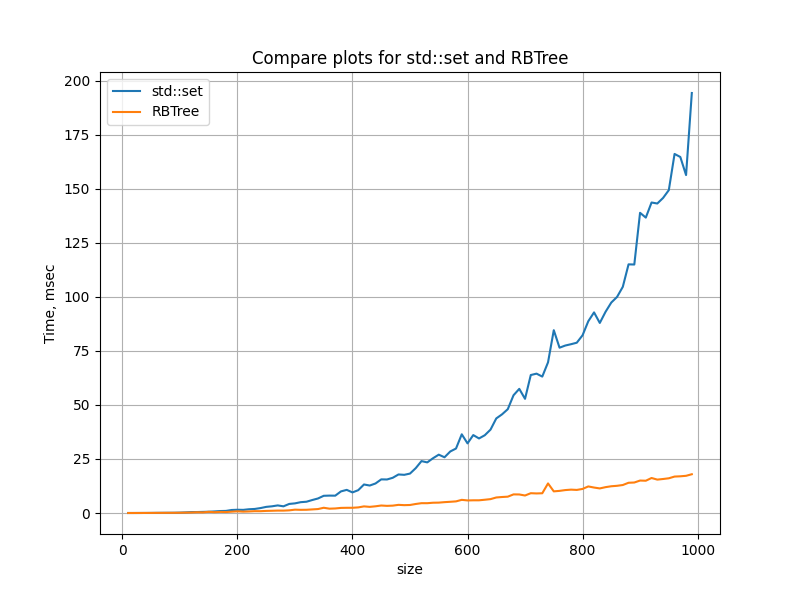
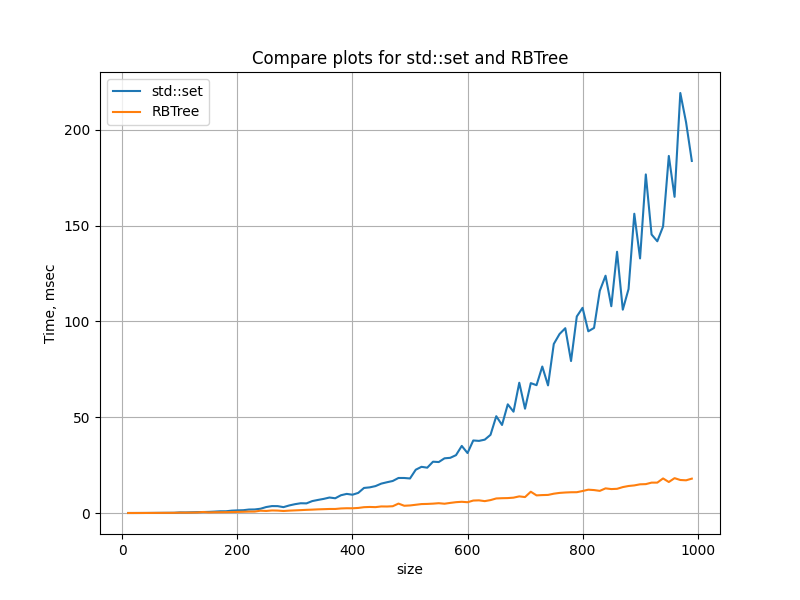
Added 2 programs to compare

diff --git a/Tree/include/Tree.hpp b/Tree/include/Tree.hpp
@@ -600,8 +600,9 @@ private:
     }
 
     size_t countNodesLess(NodePtr node) const {
+        assert(node);
         if (node == nil_) { return root_->size_; }
-        size_t sum = node->leftSize() + 1U;
+        size_t sum = node->leftSize();
         while (node != root_) {
             if (node->isRightChild()) { sum += node->parent_->leftSize() + 1U; }
             node = node->parent_;
@@ -623,11 +624,11 @@ public:
         return iterator(nil_);
     }
 
-    reverse_iterator rbegin() {
+    reverse_iterator rbegin() const {
         return reverse_iterator(end());
     }
 
-    reverse_iterator rend() {
+    reverse_iterator rend() const {
         return reverse_iterator(begin());
     }
 
@@ -666,21 +667,6 @@ public:
         NodePtr prev = nil_;
         NodePtr curr = root_;
         while (curr) {
-            bool keyLess = compare_(key, curr->key_);
-            if (keyLess) {
-                curr = curr->right_;
-            } else {
-                prev = curr;
-                curr = curr->right_;
-            }
-        }
-        return iterator(prev);
-    }
-
-    iterator upper_bound(const K& key) {
-        NodePtr prev = nil_;
-        NodePtr curr = root_;
-        while (curr) {
             bool keyBigger = compare_(curr->key_, key);
             if (keyBigger) {
                 curr = curr->right_;
@@ -692,9 +678,25 @@ public:
         return iterator(prev);
     }
 
+    iterator upper_bound(const K& key) {
+        NodePtr prev = nil_;
+        NodePtr curr = root_;
+        while (curr) {
+            bool keyLess = compare_(key, curr->key_);
+            if (keyLess) {
+                prev = curr;
+                curr = curr->left_;
+            } else {
+                curr = curr->right_;
+            }
+        }
+        return iterator(prev);
+    }
+
     size_t distance(iterator first, iterator last) const {
-        if (compare_(*last, *first)) { return 0U; }
-        return countNodesLess(last.node_) - countNodesLess(first.node_) + 1U;
+        if (empty()) { return 0U; }
+        if (last.node_ != nil_ && compare_(*last, *first)) { return 0U; }
+        return countNodesLess(last.node_) - countNodesLess(first.node_);
     }
 
     void dump(std::fstream& file) const {

diff --git a/Tree/include/Utils.hpp b/Tree/include/Utils.hpp
@@ -6,21 +6,19 @@ This file contains function, that checks end_to_end tests.
 
 */
 
+#include <set>
 #include <vector>
 #include "Tree.hpp"
 
 namespace tree
 {
 
-inline std::vector<int> process(std::istream& in) {
-	in.exceptions(in.failbit);
+inline std::vector<int> myProcess(std::istream& in) {
 	RBTree<int> tree;
-	//std::fstream log{"../mylog.dot", std::ios::out};
 	std::vector<int> output;
 
-	while (!in.eof()) {
-		char cmd = 0;
-		in >> cmd;
+	char cmd = 0;
+	while (in >> cmd) {
 		if (cmd == 'k') {
 			int key = 0;
 			in >> key;
@@ -29,12 +27,10 @@ inline std::vector<int> process(std::istream& in) {
 			int lowerBound = 0;
 			int upperBound = 0;
 			in >> lowerBound >> upperBound;
-			if (lowerBound > upperBound) {
-				throw std::logic_error("Lower bound > upper bound");
-			}
+			if (lowerBound > upperBound) { std::swap(lowerBound, upperBound); }
 			output.push_back(0);
-			auto lowIt = tree.upper_bound(lowerBound);
-			auto upIt = tree.lower_bound(upperBound);
+			auto lowIt = tree.lower_bound(lowerBound);
+			auto upIt = tree.upper_bound(upperBound);
 			output[output.size() - 1] = tree.distance(lowIt, upIt);
 		} else if (cmd == 'e') {
 			break;
@@ -42,8 +38,33 @@ inline std::vector<int> process(std::istream& in) {
 			throw std::out_of_range(std::string("Unknown command ") + cmd);
 		}
 	}
-	//tree.dump(log);
+	return output;
+}
 
+inline std::vector<int> stdProcess(std::istream& in) {
+	std::set<int> tree;
+	std::vector<int> output;
+
+	char cmd = 0;
+	while (in >> cmd) {
+		if (cmd == 'k') {
+			int key = 0;
+			in >> key;
+			tree.insert(key);
+		} else if (cmd == 'q') {
+			int lowerBound = 0;
+			int upperBound = 0;
+			in >> lowerBound >> upperBound;
+			output.push_back(0);
+			auto lowIt = tree.lower_bound(lowerBound);
+			auto upIt = tree.upper_bound(upperBound);
+			output[output.size() - 1] = std::distance(lowIt, upIt);
+		} else if (cmd == 'e') {
+			break;
+		} else {
+			throw std::out_of_range(std::string("Unknown command ") + cmd);
+		}
+	}
 	return output;
 }
 

diff --git a/Tree/test/TreeTest.cpp b/Tree/test/TreeTest.cpp
@@ -51,7 +51,7 @@ bool checkProperty4(RBTree<int>& t) {
 
 	if (leaves.empty()) { return true; }
 	size_t depth = countBlackNodes(leaves[0], t.root());
-	for (size_t i = 1; i < leaves.size(); ++i) {
+	for (size_t i = 1U; i < leaves.size(); ++i) {
 		if (countBlackNodes(leaves[i], t.root()) != depth) { return false; }
 	}
 	return true;
@@ -81,10 +81,15 @@ TEST(RBTreeTest, treeInsert) {
 }
 
 TEST(RBTreeTest, end_to_end_tests) {
-	std::ifstream in1{"../test/test1.txt", std::ios::in};
-	auto out1 = process(in1);
+	std::ifstream in1{"../test/001.dat", std::ios::in};
+	auto out1 = myProcess(in1);
 	std::vector<int> outCorrect1{2, 0, 3};
 	EXPECT_TRUE(out1 == outCorrect1);
+
+	std::ifstream in2{"../test/002.dat", std::ios::in};
+	auto out2 = myProcess(in2);
+	std::vector<int> outCorrect2{0, 0, 2, 2, 0, 1, 0, 2, 4, 3};
+	EXPECT_TRUE(out2 == outCorrect2);	
 }
 
 TEST(RBvsSTDSET, speed_test) {
@@ -111,10 +116,9 @@ TEST(RBvsSTDSET, speed_test) {
 		}
 		auto end = std::chrono::high_resolution_clock::now();
 		auto elapsed = std::chrono::duration_cast<std::chrono::microseconds>(end - start);
-		//std::cout << "Set: " << elapsed.count() << " " << sumDist << std::endl;
-		//std::cout << sumDist << " ";
-		file << static_cast<double>(elapsed.count()) * 0.001 << "\t";
+		file << sumDist << "\t" << static_cast<double>(elapsed.count()) * 0.001 << "\t";
 
+		sumDist = 0;
 		start = std::chrono::high_resolution_clock::now();
 		for (auto it1 = rb.begin(); it1 != rb.end(); ++it1) {
 			for (auto it2 = it1; it2 != rb.end(); ++it2) {
@@ -123,10 +127,7 @@ TEST(RBvsSTDSET, speed_test) {
 		}
 		end = std::chrono::high_resolution_clock::now();
 		elapsed = std::chrono::duration_cast<std::chrono::microseconds>(end - start);
-		//std::cout << "RB: " << elapsed.count() << " " << sumDist << std::endl;
-		//std::cout << sumDist << "\n";
-		file << static_cast<double>(elapsed.count()) * 0.001 << std::endl;
-		assert(&sumDist);
+		file << sumDist << "\t" << static_cast<double>(elapsed.count()) * 0.001 << std::endl;
 	}
 }
 

diff --git a/Tree/test/MyDistance.cpp b/Tree/test/MyDistance.cpp
@@ -1,0 +1,20 @@
+#include <chrono>
+#include "../include/Utils.hpp"
+#include "../include/Tree.hpp"
+
+int main()
+{
+    try {
+        auto start = std::chrono::high_resolution_clock::now();
+		auto res = tree::myProcess(std::cin);
+        auto end = std::chrono::high_resolution_clock::now();
+        auto elapsed = std::chrono::duration_cast<std::chrono::microseconds>(end - start);
+		for (size_t i = 0; i < res.size(); ++i) {
+			std::cout << res[i] << " ";
+		}
+        std::cout << "\nTime processed: " << static_cast<double>(elapsed.count()) * 0.001 << " msec" << std::endl;
+	} catch (const std::exception& e) {
+		std::cout << "Error: " << e.what() << std::endl;
+	}
+    return 0;
+}

diff --git a/Tree/test/Compare.py b/Tree/test/Compare.py
@@ -1,6 +1,6 @@
 import matplotlib.pyplot as plt
 
-with open('./test/compare.txt', 'r') as file:
+with open('../test/compare.txt', 'r') as file:
     lines = file.readlines()
 
 x = []
@@ -10,8 +10,8 @@ y2 = []
 for line in lines:
     data = line.strip().split()
     x.append(float(data[0]))
-    y1.append(float(data[1]))
-    y2.append(float(data[2]))
+    y1.append(float(data[2]))
+    y2.append(float(data[4]))
 
 plt.figure(figsize=(8, 6))
 plt.plot(x, y1, label='std::set')
@@ -21,4 +21,4 @@ plt.ylabel('Time, msec')
 plt.legend()
 plt.title('Compare plots for std::set and RBTree')
 plt.grid(True)
-plt.savefig("./res/compare.png")
+plt.savefig("../res/compare.png")

diff --git a/Tree/test/StdDistance.cpp b/Tree/test/StdDistance.cpp
@@ -1,0 +1,19 @@
+#include <chrono>
+#include "../include/Utils.hpp"
+
+int main()
+{
+    try {
+        auto start = std::chrono::high_resolution_clock::now();
+		auto res = tree::stdProcess(std::cin);
+        auto end = std::chrono::high_resolution_clock::now();
+        auto elapsed = std::chrono::duration_cast<std::chrono::microseconds>(end - start);
+		for (size_t i = 0; i < res.size(); ++i) {
+			std::cout << res[i] << " ";
+		}
+        std::cout << "\nTime processed: " << static_cast<double>(elapsed.count()) * 0.001 << " msec" << std::endl;
+	} catch (const std::exception& e) {
+		std::cout << "Error: " << e.what() << std::endl;
+	}
+    return 0;
+}

diff --git a/Tree/Tree.cpp b/Tree/Tree.cpp
@@ -6,23 +6,11 @@ using namespace tree;
 int main()
 {
     try {
-		auto res = process(std::cin);
+		auto res = myProcess(std::cin);
 		for (size_t i = 0; i < res.size(); ++i) {
 			std::cout << res[i] << " ";
 		}
 		std::cout << std::endl;
-		//std::fstream file{"../mylog.dot", std::ios::out};
-		//RBTree<int> t;
-		//t.insert(10);
-		//t.insert(20);
-		//t.insert(5);
-		//t.insert(15);
-		//t.insert(25);
-		//t.insert(7);
-		//t.insert(8);
-		//t.erase(8);
-		//t.erase(10);
-		//t.dump(file);
 	} catch (const std::exception& e) {
 		std::cout << "Error: " << e.what() << std::endl;
 	}

diff --git a/Tree/README.md b/Tree/README.md
@@ -33,3 +33,15 @@ To check my tests:
 Function `std::distance( InputIt first, InputIt last )` and my method `distance(iterator first, iterator last)` were tested on trees with size from 10 to 1000. Here you can see results:
 
 ![plot](./res/compare.png)
+
+## More comparison
+
+You can run the task using my algorithm
+```
+        ./myDistance_test
+```
+And using std:
+```
+        ./stdDistance_test
+```
+To see which one is faster.
